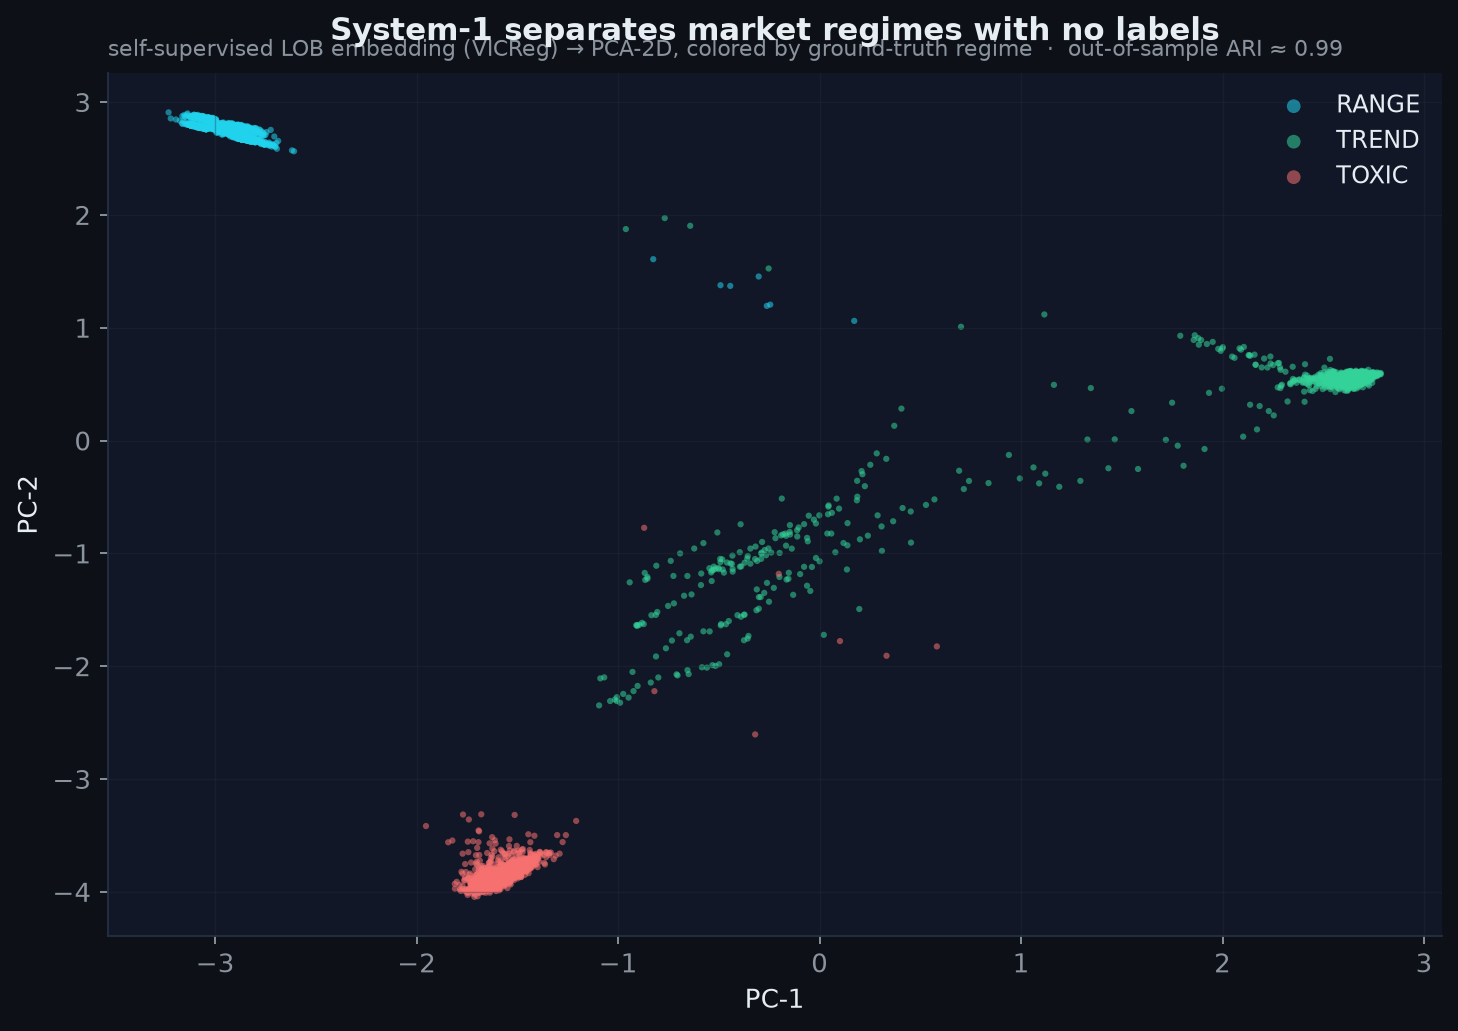
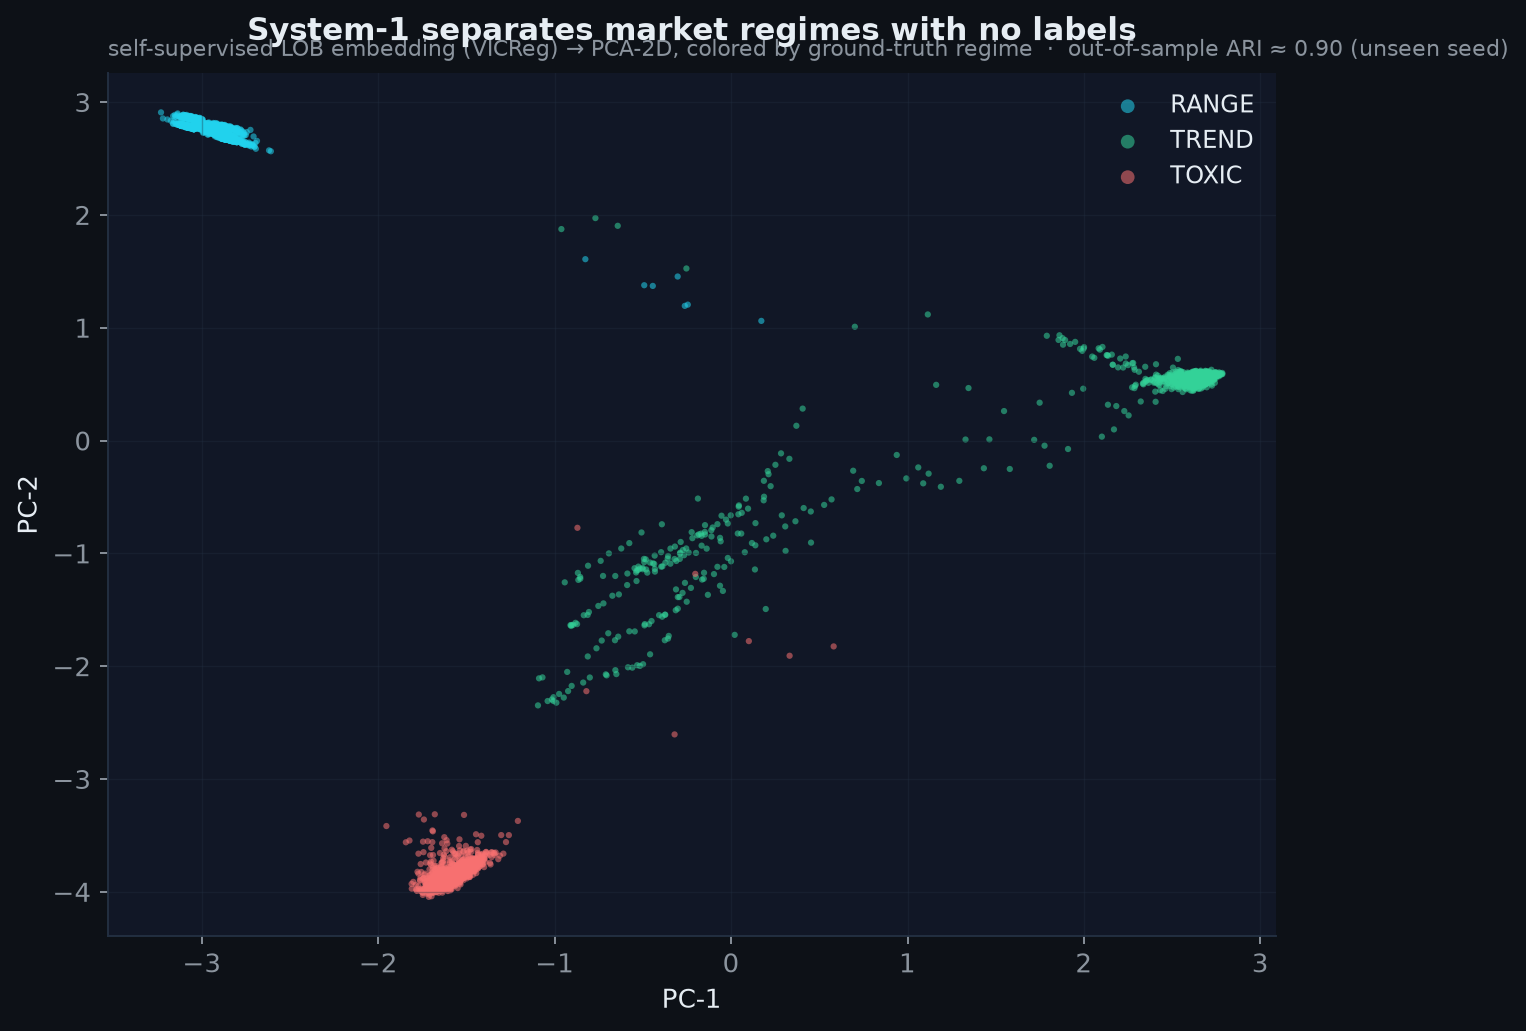
docs(honesty): report the real out-of-sample ARI (~0.90), not the in-sample 0.99
The marquee System-1 result was overstated. '0.99' is the in-sample /
transductive ARI (artifacts/report.json — the same stream trained and scored,
seed 7 = the training seed). The genuine out-of-sample number, which I
reproduced across unseen seeds with kairos.perception.regime.evaluate, is
ARI ≈ 0.90 (seed13=0.897, seed42=0.908, seed99=0.920, seed123=0.873), with
~0.999 linear separability. The README even called the 0.99 'not circular' —
but it was the circular one.

- README.md:45 + :188: state the honest OOS ARI ≈ 0.90 (0.87–0.92), label 0.99
  as in-sample/transductive, and give the reproduce command (--seed 13).
- scripts/make_readme_figures.py: fig_regime_separation now COMPUTES the OOS ARI
  from exactly the data it plots (same KMeans as evaluate.py) and formats it into
  the caption, so the caption can never again drift from the figure.
- docs/images/regime_separation.png: regenerated — caption now reads ARI ≈ 0.90.

No code-path behaviour change; the >=0.7 OOS floor test still guards the claim.

diff --git a/scripts/make_readme_figures.py b/scripts/make_readme_figures.py
@@ -89,7 +89,9 @@ def _embed(model, X, stats):
 
 # --- Figure 1 : regime separation -------------------------------------------
 def fig_regime_separation():
+    from sklearn.cluster import KMeans
     from sklearn.decomposition import PCA
+    from sklearn.metrics import adjusted_rand_score
 
     model, stats = _load_encoder()
     df = generate(n_steps=6000, seed=13, scenario="toxic")  # unseen seed
@@ -98,6 +100,15 @@ def fig_regime_separation():
     z2 = PCA(n_components=2, random_state=0).fit_transform(np.asarray(z))
     reg = df["regime"].to_numpy()
 
+    # Compute the *out-of-sample* ARI on exactly the data being plotted, with the
+    # same KMeans clustering as kairos.perception.regime.evaluate, so the caption
+    # can never drift from the figure. The trained encoder + train-time stats are
+    # frozen; this seed (13) is unseen, so this is genuinely out-of-sample — and
+    # ~0.90, not the 0.99 in-sample/transductive number from report.json.
+    zs = (z - z.mean(0)) / (z.std(0) + 1e-6)
+    pred = KMeans(n_clusters=3, n_init=10, random_state=0).fit_predict(zs)
+    oos_ari = float(adjusted_rand_score(reg, pred))
+
     fig, ax = plt.subplots(figsize=(9, 6.2), dpi=170)
     for r in (Regime.RANGE, Regime.TREND, Regime.TOXIC):
         m = reg == int(r)
@@ -105,7 +116,9 @@ def fig_regime_separation():
                    label=r.name, edgecolors="none", rasterized=True)
     _style(ax)
     ax.set_title("System-1 separates market regimes with no labels", pad=14)
-    ax.text(0.0, 1.02, "self-supervised LOB embedding (VICReg) → PCA-2D, colored by ground-truth regime  ·  out-of-sample ARI ≈ 0.99",
+    ax.text(0.0, 1.02,
+            "self-supervised LOB embedding (VICReg) → PCA-2D, colored by ground-truth "
+            f"regime  ·  out-of-sample ARI ≈ {oos_ari:.2f} (unseen seed)",
             transform=ax.transAxes, fontsize=9.5, color=MUTED)
     ax.set_xlabel("PC-1")
     ax.set_ylabel("PC-2")

diff --git a/README.md b/README.md
@@ -42,7 +42,7 @@ Kairos keeps **both**, and wires them together the way a mind does:
 
 <p align="center">
   <img src="docs/images/regime_separation.png" width="82%" alt="System-1 separates regimes with no labels">
-  <br><em>System 1 is a self-supervised order-book model that learns to tell RANGE, TREND and TOXIC (spoofed) markets apart <b>with no labels</b> — out-of-sample ARI ≈ 0.99.</em>
+  <br><em>System 1 is a self-supervised order-book model that learns to tell RANGE, TREND and TOXIC (spoofed) markets apart <b>with no labels</b> — out-of-sample ARI ≈ 0.90 on unseen market seeds (≈0.999 linear separability; 0.99 is the in-sample/transductive figure).</em>
 </p>
 
 The hard part is the **join**. If you let the slow, deliberate System 2 read market data freely, it *cheats*: an agent reasoning "as of 2024-05-10" calls a data vendor that quietly hands back revised fundamentals, forward-adjusted prices, or "latest" news — and your backtest inflates. This look-ahead bias is the quiet killer of agentic backtests.
@@ -185,7 +185,7 @@ final_state, decision = ta.propagate(
 - **TREND** — one-sided aggressive flow is eating the book; don't fade it.
 - **TOXIC** — displayed liquidity is *phantom* (spoofing / mass cancels); stand aside.
 
-The regime label is **evaluation-only** — it never enters a training loss (Constitution Rule 4). That's what makes the ARI ≈ 0.99 separation above an honest result and not circular.
+The regime label is **evaluation-only** — it never enters a training loss (Constitution Rule 4). That's what makes the separation above an honest result and not circular: on a **freshly-seeded, unseen** market stream the frozen encoder still recovers the three regimes at **out-of-sample ARI ≈ 0.90** (0.87–0.92 across seeds; ≈0.999 linear separability). The **0.99** you'll see in `artifacts/report.json` is the *in-sample / transductive* number (same stream trained and scored) — reproduce the out-of-sample figure with `python -m kairos.perception.regime.evaluate --seed 13`.
 
 ### 2 · The Causal Perception Bus — closing the look-ahead hole *by construction*
 